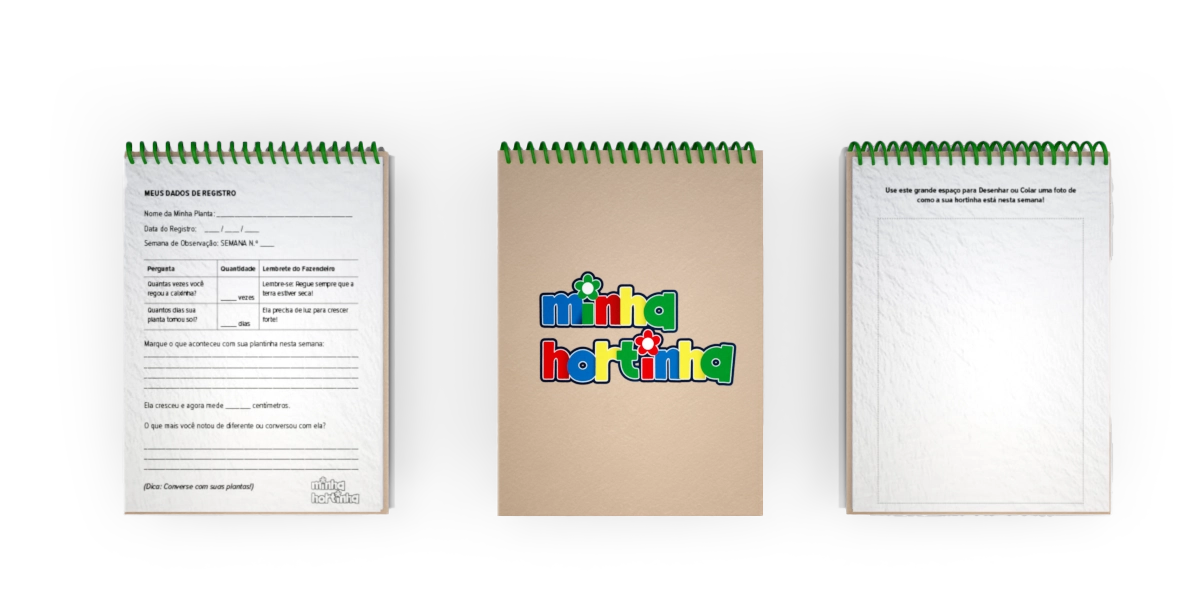
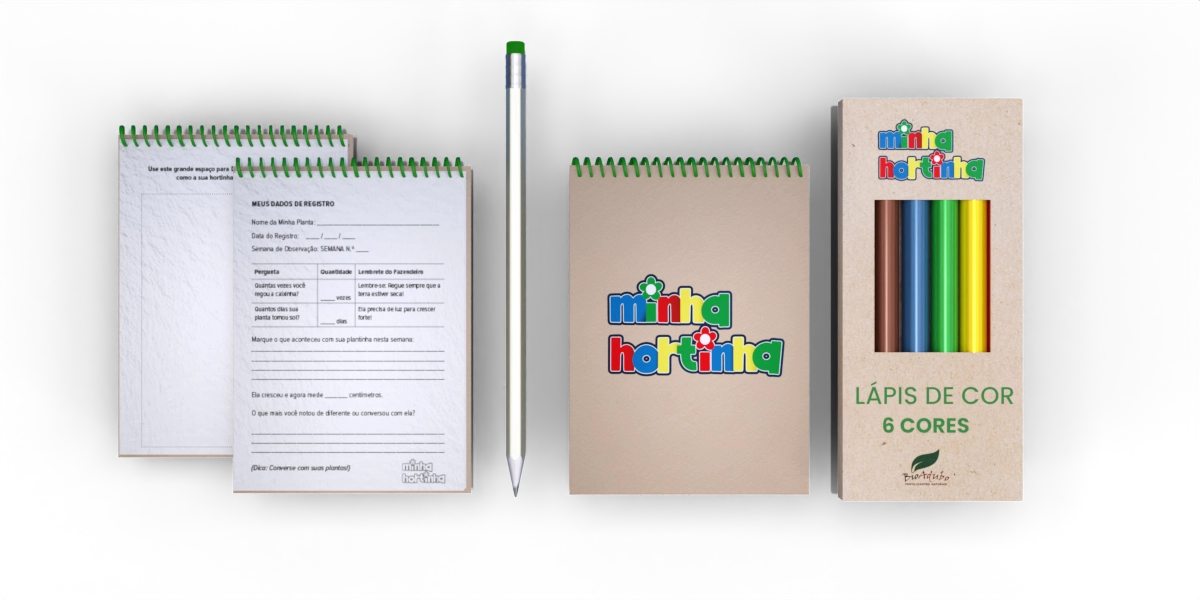
ajsutes imagens

diff --git a/minha-hortinha-bloco-anotacoes.html b/minha-hortinha-bloco-anotacoes.html
@@ -54,7 +54,7 @@
                     
                     <h3 class="text-2xl font-bold text-green-700 mb-6">O que é o Bloco de Anotações?</h3>
                     <p class="text-lg text-gray-700 mb-6">
-                        O bloco de anotações é um componente essencial do kit Minha Hortinha que acompanha a criança durante toda a jornada de aprendizado. É um espaço dedicado para <strong>registrar observações, descobertas e curiosidades</strong> sobre o processo de cultivo e o ciclo de vida das plantas.
+                        O bloco de anotações é um componente essencial do kit Minha Hortinha que acompanha a criança durante toda a jornada de aprendizado, ele acompanha um lápis para anotações e um conjunto de lápis de cores para a criança registrar o desenvolvimento da sua plantinha. É um espaço dedicado para <strong>registrar observações, descobertas e curiosidades</strong> sobre o processo de cultivo e o ciclo de vida das plantas.
                     </p>
                     <p class="text-lg text-gray-700 mb-6">
                         Este bloco transforma a experiência prática em conhecimento documentado, permitindo que a criança desenvolva habilidades de observação, escrita, desenho e pensamento científico.

diff --git a/minha-hortinha.html b/minha-hortinha.html
@@ -283,7 +283,7 @@
                             <img src="static/imagens/kit-bloco.webp" alt="Bloco de Anotações" class="w-full h-full object-cover hover:scale-105 transition-transform duration-300">
                         </div>
                         <div class="p-4">
-                            <h3 class="font-bold text-gray-800 text-lg">Bloco de Anotações</h3>
+                            <h3 class="font-bold text-gray-800 text-lg">Bloco, Lápis e Lápis de Cor</h3>
                             <p class="text-gray-600 text-sm">Registro do ciclo de aprendizado</p>
                             <p class="text-green-600 font-semibold text-sm mt-2">Saiba mais →</p>
                         </div>
